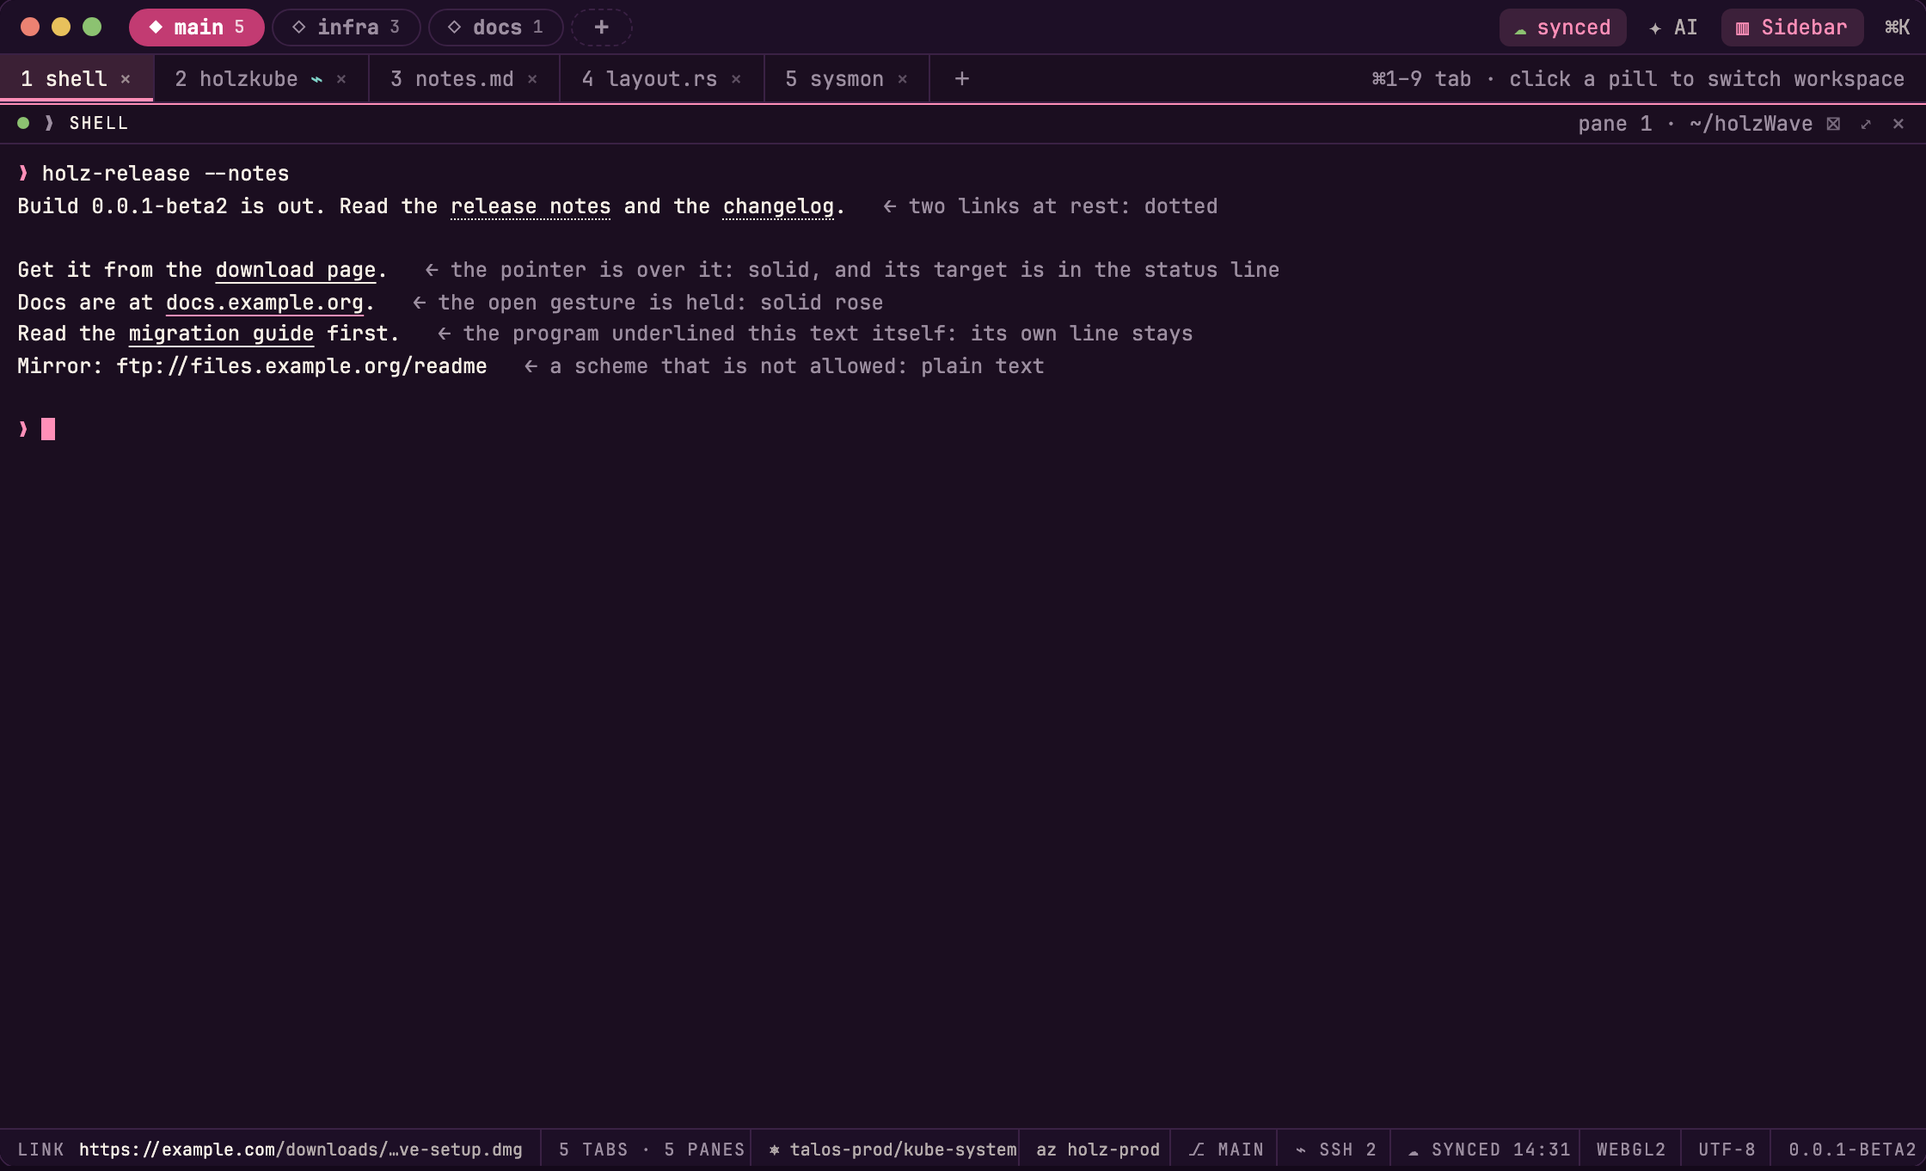
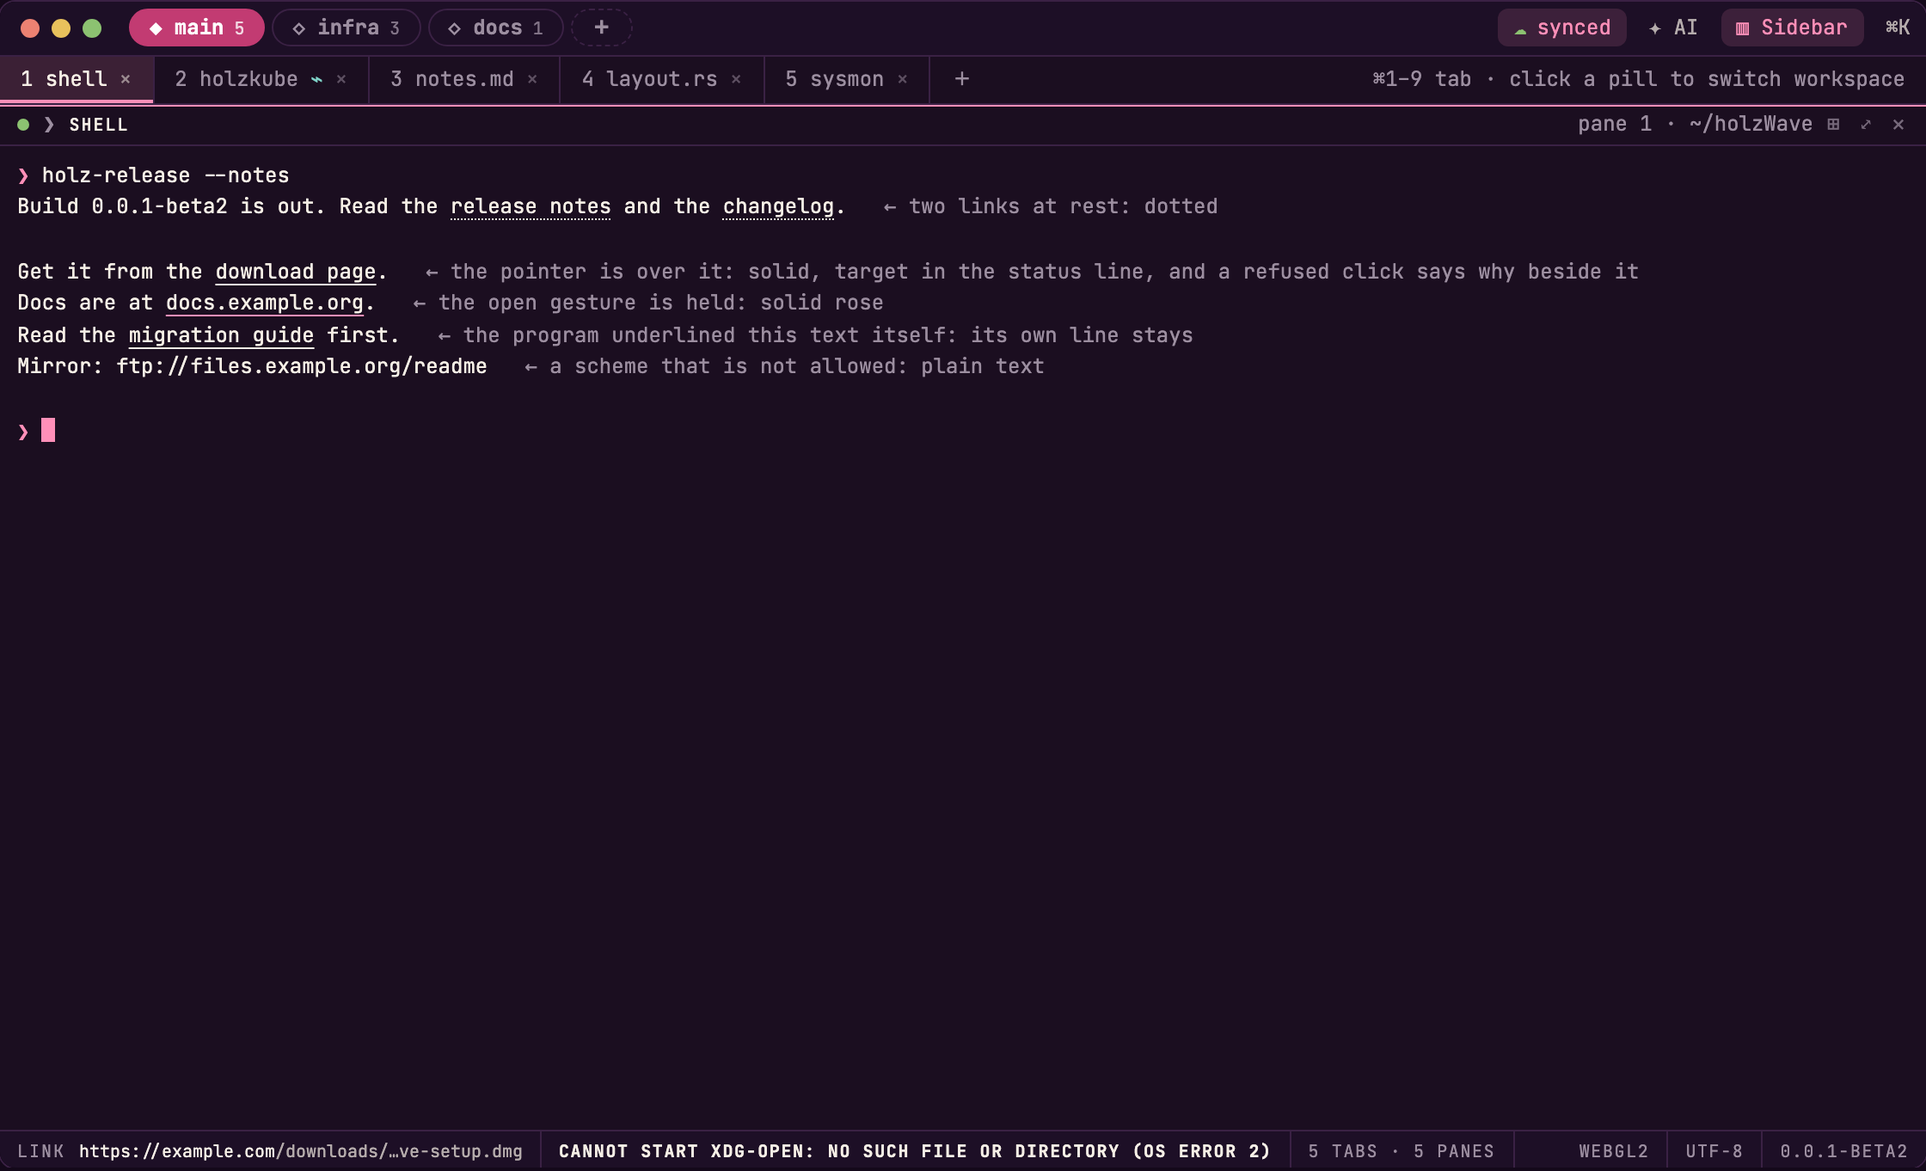
feat(10-19): a link the host refuses or cannot open says why in the notice segment of the status line
- open_url and reveal_path rejections of a click, a hint chosen with Shift, the question's Open button, a printed address and a path go to showNotice
- only a plain string of at most 200 characters is said as it is; an object, an empty string or one with a control, format or line-separator character (for example a bidirectional override) is the fixed sentence 'The link could not be opened.'
- design.md 6.31, the links view of the design page, links.png, the README alt text and the test plan say it; a success stays silent and the browser build never asks the host
- new test file osclinks-refusal because osclinks already uses most of the 30 s a browser test is given

Claude-Session: https://claude.ai/code/session_01LwGZpZ4cbYUMzW3dn354nK

diff --git a/docs/design/haarlinie-voll.html b/docs/design/haarlinie-voll.html
@@ -615,6 +615,7 @@ td:first-child{color:var(--ink);font-weight:600;white-space:nowrap}
 .status .lk-seg .lk-l{letter-spacing:.1em;text-transform:uppercase;color:var(--ink3);margin-right:8px}
 .status .lk-seg .lk-h{color:var(--ink)}
 .status .lk-seg .lk-r{color:var(--ink2)}
+.status .lk-note{color:var(--ink);font-weight:700}
 .lk-v{font:400 12px/1.5 var(--mono);color:var(--ink);background:var(--ground);border:1px solid var(--edge);border-radius:4px;padding:6px 8px;overflow-wrap:anywhere}
 .btn.lk-fo{outline:2px solid var(--ink);outline-offset:2px}
 .imt{position:relative;overflow:hidden;padding:0}
@@ -1348,10 +1349,11 @@ const lkChrome=()=>{const b=base('alltag');return b.slice(0,b.indexOf('<div clas
 const lkBody=(inner)=>`<div class="body"><div class="area" style="grid-template-columns:1fr;grid-template-rows:1fr">${P('','❯','shell','pane 1 · ~/holzWave',inner,{f:1})}</div></div>`;
 const lkTarget='https://example.com/downloads/archive/2026/08/holzwave-setup.dmg';
 const lkSeg=`<span class="lk-seg" role="status" aria-label="Link target ${lkTarget}"><span class="lk-l">Link</span><span class="lk-h">https://example.com</span><span class="lk-r">/downloads/…ve-setup.dmg</span></span>`;
+const lkNote=`<span class="lk-note" role="status">cannot start xdg-open: No such file or directory (os error 2)</span>`;
 const lkShell=`<div class="term pre"><span class="ro">❯</span> holz-release --notes
 Build 0.0.1-beta2 is out. Read the <span class="ol">release notes</span> and the <span class="ol">changelog</span>.<span class="dim">   ← two links at rest: dotted</span>
 
-Get it from the <span class="ol hv">download page</span>.<span class="dim">   ← the pointer is over it: solid, and its target is in the status line</span>
+Get it from the <span class="ol hv">download page</span>.<span class="dim">   ← the pointer is over it: solid, target in the status line, and a refused click says why beside it</span>
 Docs are at <span class="ol gs">docs.example.org</span>.<span class="dim">   ← the open gesture is held: solid rose</span>
 Read the <span class="ol pu">migration guide</span> first.<span class="dim">   ← the program underlined this text itself: its own line stays</span>
 Mirror: ftp://files.example.org/readme<span class="dim">   ← a scheme that is not allowed: plain text</span>
@@ -1381,7 +1383,7 @@ const imScene=()=>`<div class="term imt">
  <div class="cap" style="left:${IM_X+122*IM_CW}px;bottom:82px">Clipped at the bottom edge too</div>${imPic('l2',`left:${IM_X+122*IM_CW}px;bottom:-37px;width:${28*IM_CW}px;height:${6*IM_CH}px`,imBands)}
  <div class="cap" style="left:${IM_X}px;bottom:28px">Animated pictures do not move under reduced motion:</div><div class="cap" style="left:${IM_X}px;bottom:12px">the first frame if never started, else the frame they show.</div></div>`;
 const lkViews={
- links:()=>lkChrome()+lkBody(lkShell)+status().replace('<div class="status row">','<div class="status row">'+lkSeg),
+ links:()=>lkChrome()+lkBody(lkShell)+`<div class="status row">${lkSeg}${lkNote}<span>5 tabs · 5 panes</span><span style="margin-left:auto">webgl2</span><span>utf-8</span><span>0.0.1-beta2</span></div>`,
  'link-ask':()=>lkChrome()+lkBody(lkShell)+status(),
  images:()=>lkChrome()+lkBody(imScene())+status()
 };
@@ -1438,7 +1440,7 @@ const views=[
  ['web-account','Web: account','The account dialog, opened from the palette entry Account\u2026: one group for each thing a person can change (password, authenticator, passkeys, unlock passphrase, recovery code) with its state as a word, and the sessions with this one marked by the word this session and a dot, Sign out and Sign out everywhere. A change asks again in the layer Confirm it is you above the dialog, which shows the account name in mono and offers the password or a passkey.'],
  ['web-people','Web: people','The people dialog, for administrators only: the table of accounts with role, state (active with a dot, disabled with a ring, locked out with ! and an underline) and last sign-in, the menu of one row (Make admin, Disable, Unlock sign-in while locked out, Reset secrets, Delete) and the layer that shows a new invitation link once with Copy link. The dialog shows no secret, terminal, command or layout of anyone.'],
  ['web-window','Web: window','The window as a browser shows it: the bar starts at the left edge, with no window buttons and no drag region. In the status line the marks reconnecting (a dotted ring), session ends in 4 min (a quarter circle) and secrets locked (a lock and the text button Unlock), and the notice Not available in the browser. A file dragged over a pane that takes it (a shell, a chat or a file browser; a preview, the monitor and a tool view take nothing and show no edge) shows a dashed edge and Drop to upload, with the upload folder once the page has seen it (the first drop of a page load shows the label alone); the edge is drawn here on the shell pane, and it is the same on a chat and on a file browser. A dropped file becomes its quoted path typed in a shell, the same path in the message of a chat, and the selected row of a file browser that lists the upload folder (a browser that lists another folder stays as it is and the status line says Uploaded to the folder). The row menu of a file in the file browser has the one entry Download; Settings has the row Notifications, here off, on and blocked by the browser.'],
-  ['links','Links','Links the program marked, in a shell pane (docs/design.md 6.31): two at rest with a dotted underline, one under the pointer with a solid underline and its target in the LINK segment of the status line (cut in the middle), one with the open gesture held in solid rose, one in text the program underlined itself, and an address with a scheme that is not allowed, which stays plain text. The pointer cursor is the system\u2019s and is not drawn.'],
+  ['links','Links','Links the program marked, in a shell pane (docs/design.md 6.31): two at rest with a dotted underline, one under the pointer with a solid underline and its target in the LINK segment of the status line (cut in the middle) with the notice beside it that says why a click could not open it (the host\u2019s own sentence, here an opener that cannot be started), one with the open gesture held in solid rose, one in text the program underlined itself, and an address with a scheme that is not allowed, which stays plain text. The pointer cursor is the system\u2019s and is not drawn.'],
   ['link-ask','Link dialog','The question Open this link? for a link whose text names one site and whose target is another: the text and the full target in mono, Cancel focused with the 2 px ring, Open the solid rose button. It has the shape of the close confirmation and is a floating layer.'],
   ['images','Images','Pictures in a shell pane: one in each of the three layers (below the cell backgrounds, between the backgrounds and the text, above the text), pictures clipped at the top and bottom edge of the pane body, a picture made of placeholder cells, and the cursor and a selection drawn over a picture. An animated picture does not move under reduced motion: its first frame if it was never started, else the frame it shows.'],
   ['drag','Drag','Reorder panes by drag and drop, drop them as a tab, drag them out into a new window. On Wayland use the palette.']

diff --git a/app/src/links.ts b/app/src/links.ts
@@ -412,6 +412,28 @@ interface LinkDeps {
   call: (cmd: string, args: Record<string, unknown>) => Promise<unknown>;
   /** The question `Open this link?`; `onOpen` is called synchronously from the click or key that confirms. Null: no question can be asked. */
   ask: ((shown: string, target: string, onOpen: () => void) => void) | null;
+  /** Say `text` in the notice segment of the status line (docs/design.md 6.31, a link that cannot be opened). */
+  say: (text: string) => void;
+}
+
+/** What is said when the host refused or failed in a way the page cannot put in words. */
+export const LINK_REFUSED = "The link could not be opened.";
+/** The most characters of the host's sentence the status line takes. */
+const MAX_REFUSAL = 200;
+/** A control, format, unassigned, surrogate or private-use character, and the line and paragraph separators: none may reach the status line. */
+const NOT_PLAIN = /[\p{C}\p{Zl}\p{Zp}]/u;
+
+/**
+ * What the status line says when `open_url` or `reveal_path` rejected with `reason`. The host's refusals are fixed sentences that
+ * never repeat the address or the path, so a plain string is said as it is, cut at 200 characters (code points). Anything else
+ * (an object, an empty or blank string, a string with a control, format or line-separator character such as a bidirectional
+ * override) is the one fixed sentence: the page does not guess what such a value means and never shows what a program could have
+ * put in it. The caller puts the result in as text.
+ */
+export function refusalSentence(reason: unknown): string {
+  if (typeof reason !== "string" || reason.trim() === "" || NOT_PLAIN.test(reason)) return LINK_REFUSED;
+  const points = Array.from(reason);
+  return points.length > MAX_REFUSAL ? points.slice(0, MAX_REFUSAL).join("") : reason;
 }
 
 let deps: LinkDeps | null = null;
@@ -419,9 +441,13 @@ let deps: LinkDeps | null = null;
 /** Load what opening a link needs (the bridge and the dialog) once; `activateLink` does nothing before this has run. */
 export async function linkDeps(): Promise<void> {
   if (deps) return;
-  const { call } = await import("./bridge.js");
+  const [{ call }, { showNotice }] = await Promise.all([import("./bridge.js"), import("./status.js")]);
   // The dialog's module is fetched at the first question, not at start-up: nothing new is loaded while the page starts.
-  deps = { call, ask: (shown, target, onOpen) => void import("./linkask.js").then((m) => m.askOpenLink(shown, target, onOpen)).catch(() => {}) };
+  deps = {
+    call,
+    ask: (shown, target, onOpen) => void import("./linkask.js").then((m) => m.askOpenLink(shown, target, onOpen)).catch(() => {}),
+    say: showNotice,
+  };
 }
 
 /** What decides whether a marked link in `pane` is a link: the person's list, the build and the pane's connection. */
@@ -442,17 +468,19 @@ export function pagePolicy(pane: number): LinkPolicy {
 export function activateLink(pane: number, target: Target): void {
   const d = deps;
   if (!d) return;
+  // A refusal of the host is answered in the status line; the click itself stays what it was, a call started from the gesture.
+  const refused = (reason: unknown): void => d.say(refusalSentence(reason));
   if (target.source !== "osc8") {
     const action = linkAction(target, state.cwds.get(pane) ?? null, canRevealPaths());
     if (action?.command === "open_url") {
       const { url } = action.args;
-      openUrl(url, () => void d.call("open_url", { url }).catch(() => {}));
-    } else if (action) void d.call(action.command, action.args).catch(() => {});
+      openUrl(url, () => void d.call("open_url", { url }).catch(refused));
+    } else if (action) void d.call(action.command, action.args).catch(refused);
     return;
   }
   const url = target.text;
   if (!linkAllowed(url, pagePolicy(pane))) return;
-  const open = (): void => openUrl(url, () => void d.call("open_url", { url, pane }).catch(() => {}));
+  const open = (): void => openUrl(url, () => void d.call("open_url", { url, pane }).catch(refused));
   if (!linkTextDiffers(target.shown ?? "", url)) {
     open();
     return;

diff --git a/docs/design.md b/docs/design.md
@@ -264,7 +264,7 @@ Each view is a state of the same window. Overlays use the 24 px radius and the s
 | Web: account | ![](design/web-account.png) | the account dialog (6.29) with its six groups and the layer `Confirm it is you` above it |
 | Web: people | ![](design/web-people.png) | the people dialog (6.29): the table of accounts with state marks, the menu of one row and the invitation link shown once |
 | Web: window | ![](design/web-window.png) | the window as the browser shows it (6.30): no window buttons, the marks of the status line, the upload target, the `Download` row menu and the Notifications setting |
-| Links | ![](design/links.png) | links in the output of a shell pane (6.31): two at rest with a dotted underline, one under the pointer with a solid underline and its target in the `LINK` segment of the status line, one with the open gesture held in rose, one in text the program underlined itself, and an address with a scheme that is not allowed, which stays plain text |
+| Links | ![](design/links.png) | links in the output of a shell pane (6.31): two at rest with a dotted underline, one under the pointer with a solid underline and its target in the `LINK` segment of the status line, with the notice beside it that says why a click could not open it, one with the open gesture held in rose, one in text the program underlined itself, and an address with a scheme that is not allowed, which stays plain text |
 | Link dialog | ![](design/link-ask.png) | the question `Open this link?` (6.31) for a link whose text names one site and whose target is another: the text and the target in mono, `Cancel` focused, `Open` solid rose |
 | Images | ![](design/images.png) | pictures in a shell pane (6.31): one in each of the three layers, a picture clipped at the edge of the pane body, a picture made of placeholder cells, and the cursor and a selection drawn over a picture |
 | Drag | ![](design/drag.png) | drop zones on the outer quarter of a pane, a tab drop zone, tear-off into a new window |
@@ -2602,11 +2602,14 @@ gesture held the link under the pointer gets a solid underline in `--hw-rose` an
 | The program already underlined the text | its own underline stays, no dotted line | found by hover and by hint mode |
 | A scheme that is not allowed | nothing: plain text | no underline, no click |
 | A `file` link in a server pane or in a browser | nothing: plain text | no underline, no click |
+| A link that cannot be opened | the notice segment of the status line holds the host's sentence for the usual time; the text is not marked | the words; the `LINK` segment may stay beside it |
 
 **The target in the status line.** A segment at the left of the status line holds the label `LINK` (uppercase, tracked, `.label`) and the target in
 mono, with the scheme and the host in `--hw-ink` and the rest in `--hw-ink-2`. A target longer than the segment is cut in the middle with `…` so that
 the scheme, the host and the last 12 characters stay. It is there while the pointer is over a link and gone when it leaves. It does not use the
 segment of the notice. The full target is also the accessible name of the segment.
+
+**A link that cannot be opened.** A click, or a link chosen in hint mode with `Shift` held, that the host refuses or cannot carry out (a scheme taken off the list since, a `file` link whose file is gone, no program to open it) is answered in the notice segment of the status line (section 2 rule 5) for the usual time. The words are the host's own fixed sentence, which never repeats the address; any other failure is the one sentence `The link could not be opened.` There is no dialog and no mark on the text, and the `LINK` segment may stay beside the notice while the pointer stays on the link. A click that succeeds says nothing. The browser build opens a tab itself and never asks the host, so it has no such notice.
 
 **The question.** When the visible text of the link and its target differ, the click with the gesture opens a dialog of the shape of the close
 confirmation (title, body lines, two buttons, centred over a backdrop): the title `Open this link?`, a line `The text says` with the visible text in

diff --git a/docs/test-plan.md b/docs/test-plan.md
@@ -596,7 +596,7 @@ This is every claim of this part that no suite here supports. It is listed so th
   on that row is only a part of the address; Open then opens it. The hover underline and the status line follow pointer and key events: when the output changes under a pointer that does not move,
   they stay until the next event.
 - `contrast-high` and `motion-reduce` were not looked at by eye for the dialog of the link question and for the status segment.
-- A refused link, a missing path or a failed opener gives no visible answer.
+- A refused link, a missing path or a failed opener is answered in the notice segment of the status line with the host's sentence. This was tested with a mock host in the browser tests (a click, a printed address, a path, a link chosen in hint mode with `Shift` and the `Open` button of the question, in both engines) and, for the host's own sentences, in the unit tests of the host. The real openers of Linux (`xdg-open`) and of Windows (`rundll32` and Explorer) were not run, so what they say when they fail was not seen.
 - An animation that replaces a frame (the form of the protocol that names a frame to replace) was not tested; the tests append frames. The
   animation switch is one per person: two browser windows with different preferences share it, and the last page to report wins.
 - Memory with pictures was measured at the default limit with many pictures of 1 MiB each, on an Apple Silicon Mac. A single
@@ -628,7 +628,7 @@ Known limits of this build, so they are not reported as defects:
 
 - While a scroll slides (at most 120 ms) the selection highlight, the search matches and the copy cursor are already at
   their final place, because they are drawn from the core's answer and not moved with the text.
-- A link or path that cannot be opened (a refused scheme, a missing path, no opener) gives no visible answer yet.
+- A link or path that cannot be opened (a refused scheme, a missing path, no opener) is answered with a notice in the status line for five seconds; the words are the host's, or `The link could not be opened.` when it says nothing the page can show.
 - The palette matches action titles only, shows no highlight of the matched letters and has no recent-first order.
 - Hint labels cover the first 676 targets of a pane in reading order, and a number of 7 to 40 digits counts as a hash.
 - `Cmd+C` is a fixed shortcut. A chord the core refused stays in the overrides map of `settings.json` until it is reset.

diff --git a/README.md b/README.md
@@ -128,7 +128,7 @@ still have to be run are in Part 10 of the [test plan](docs/test-plan.md).
 
 | Links at rest and under the pointer | The question before a link opens | Pictures in a pane |
 |---|---|---|
-| ![Terminal text with two dotted links at rest, one solid under the pointer with its address in the status line, one in rose under the open gesture, one underlined by the program, and an address with a scheme that is not allowed left as plain text](docs/design/links.png) | ![The dialog Open this link? that shows the text of a link and the address it goes to, with Cancel focused and Open](docs/design/link-ask.png) | ![A pane with pictures below the cell backgrounds, between the backgrounds and the text and above the text, pictures drawn by placeholder characters, a cursor and a selection over a picture, and pictures clipped at the pane edges](docs/design/images.png) |
+| ![Terminal text with two dotted links at rest, one solid under the pointer with its address in the status line and a notice beside it that says why a click could not open it, one in rose under the open gesture, one underlined by the program, and an address with a scheme that is not allowed left as plain text](docs/design/links.png) | ![The dialog Open this link? that shows the text of a link and the address it goes to, with Cancel focused and Open](docs/design/link-ask.png) | ![A pane with pictures below the cell backgrounds, between the backgrounds and the text and above the text, pictures drawn by placeholder characters, a cursor and a selection over a picture, and pictures clipped at the pane edges](docs/design/images.png) |
 
 The same window is drawn on every platform; only the OS window buttons and the keyboard shortcuts differ. All views and
 the design rules are in [docs/design.md](docs/design.md).
